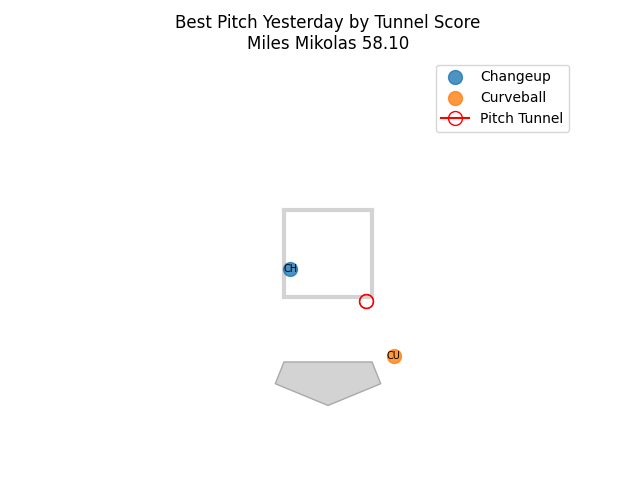
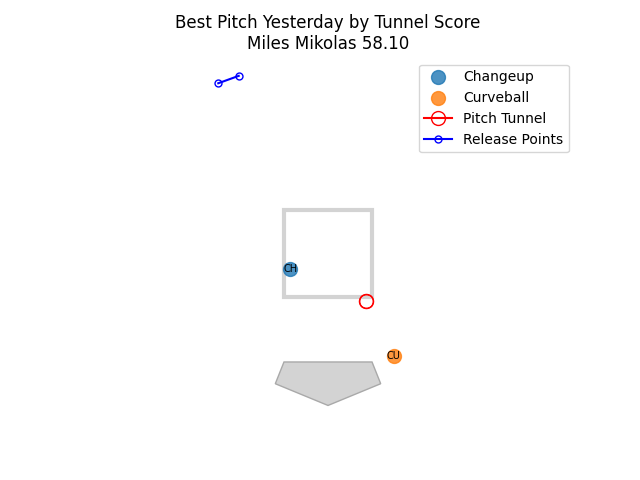
adding the release point to the plot as well

Changed region(s): [[0.6562, 0.125, 0.875, 0.3125], [0.3125, 0.1562, 0.375, 0.1875]]

diff --git a/MLBTunnelBot/update.py b/MLBTunnelBot/update.py
@@ -100,6 +100,8 @@ def _plot_pitches(tunneled_pitch: pl.DataFrame) -> axes.Axes:
         "plate_z",
         "plate_x_no_movement",
         "plate_z_no_movement",
+        "release_pos_x",
+        "release_pos_z",
     )
 
     pitch2 = tunneled_pitch.select(
@@ -112,6 +114,8 @@ def _plot_pitches(tunneled_pitch: pl.DataFrame) -> axes.Axes:
         "prev_plate_z",
         "plate_x_no_movement",
         "plate_z_no_movement",
+        "prev_release_pos_x",
+        "prev_release_pos_z",
     )
 
     p2 = pitch2.rename(

diff --git a/MLBTunnelBot/plot_tunnel.py b/MLBTunnelBot/plot_tunnel.py
@@ -169,7 +169,17 @@ def plot_strike_zone(
         markersize=10,
         markerfacecolor="none",
         color="red",
-        label="Pitch Tunnel",
+        label="Pitch Tunnels",
+    )
+
+    plt.plot(
+        data["release_pos_x"],
+        data["release_pos_z"],
+        marker="o",
+        markersize=5,
+        markerfacecolor="none",
+        color="blue",
+        label="Release Points",
     )
 
     plt.legend()

diff --git a/MLBTunnelBot/data.py b/MLBTunnelBot/data.py
@@ -44,6 +44,10 @@ keeper_cols: list[str] = [
     "at_bat_number",
     "pitch_number",
     "prev_pitch_number",
+    "release_pos_x",
+    "release_pos_z",
+    "prev_release_pos_x",
+    "prev_release_pos_z",
 ]
 
 # 2024 mlb team official hashtags
